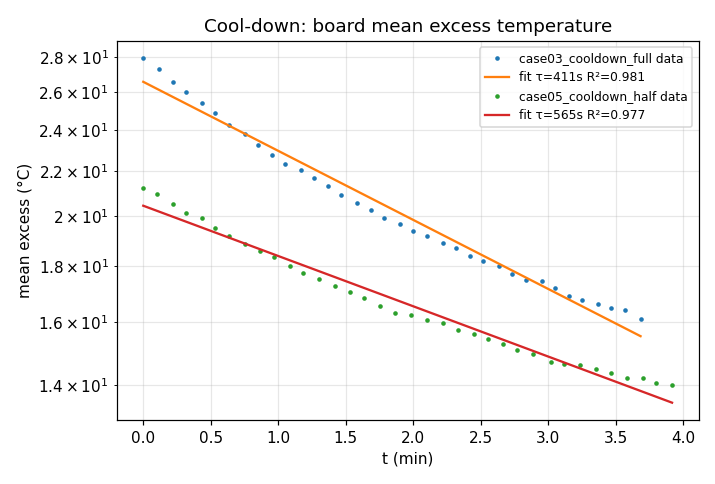
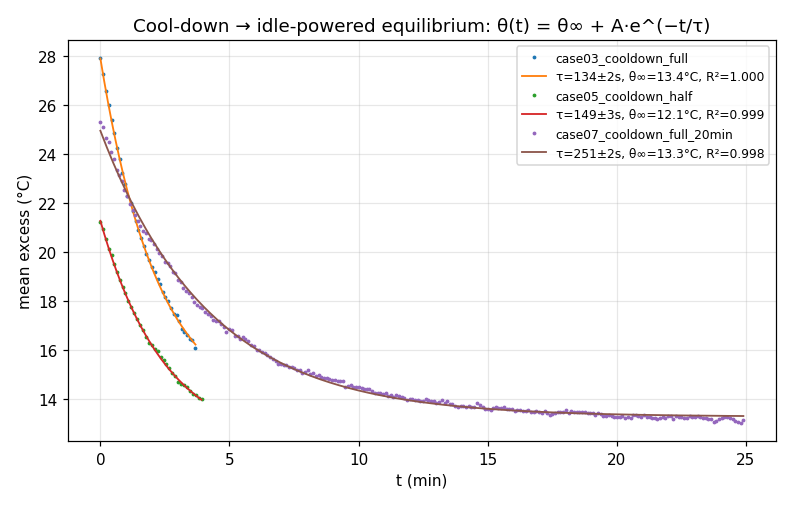
Ingest session-2 data: per-case window size/rotation, offset-exponential cooling model
- cases 06/07/08 added to ingestion (832/832 frames self-checked); session-2
  window 178x118 @ (52,33) rot180 (camera ~13% closer, board mounted 180 deg)
- cooling: theta(t) = theta_inf + A exp(-t/tau) — board decays to idle-POWERED
  equilibrium (theta_inf ~13 C), not ambient; R^2 ~0.999; session-1 tau values
  (411/565 s) were zero-offset model artifacts; window-dependent tau reveals
  two thermal modes (~140 s die/package, ~250 s PCB tail)
- case06 true plateau: peak 82.0 C, n_eff=17; h_hat bound unchanged (<~3) ->
  pretrain range log-U[0.3,30] confirmed for the GPU run
- case08 foil scenes flagged: radiometry from raw CSVs, crops not meaningful

diff --git a/scripts/analyze_physics.py b/scripts/analyze_physics.py
@@ -24,7 +24,13 @@ matplotlib.use("Agg")
 import matplotlib.pyplot as plt
 import numpy as np
 
-from tdp.data.cooling import fit_cooling, fit_h_hat_pde, h_hat_from_decay, radial_decay_fit
+from tdp.data.cooling import (
+    fit_cooling,
+    fit_cooling_offset,
+    fit_h_hat_pde,
+    h_hat_from_decay,
+    radial_decay_fit,
+)
 from tdp.data.radiometry import tape_bias_c
 from tdp.data.steady import canonical_steady, detect_steady
 from tdp.io.manifest import read_manifest, write_manifest
@@ -33,8 +39,10 @@ ROOT = Path(__file__).resolve().parents[1]
 PROC = ROOT / "data" / "processed" / "real"
 QC = ROOT / "reports" / "qc"
 
-STEADY_CASES = ["case01_idle", "case02_full_load", "case04_half_load"]
-COOLING_CASES = ["case03_cooldown_full", "case05_cooldown_half"]
+STEADY_CASES = ["case01_idle", "case02_full_load", "case04_half_load",
+                "case06_full_load_20min"]
+COOLING_CASES = ["case03_cooldown_full", "case05_cooldown_half",
+                 "case07_cooldown_full_20min"]
 NORM_LENGTH_PX = 157.0  # board long side in px (crop rows); nondimensional length unit
 
 
@@ -109,39 +117,44 @@ def main() -> int:
     plt.close(fig_c)
 
     # ---- cooling time constants --------------------------------------------------
-    fig, ax = plt.subplots(figsize=(6.5, 4.4))
+    fig, ax = plt.subplots(figsize=(7.2, 4.6))
     out["cooling"] = {}
     for cid in COOLING_CASES:
         d = data[cid]
         t = d["t_rel_s"]
         excess = d["frame_mean"] - d["t_amb"]
-        fit = fit_cooling(t, excess)
+        fit = fit_cooling_offset(t, excess)
+        fit["loglin_tau_s"] = fit_cooling(t, excess)["tau_s"]  # zero-offset diagnostic
         out["cooling"][cid] = fit
-        ax.semilogy(t / 60, excess, ".", ms=4, label=f"{cid} data")
-        tt = np.linspace(0, t[-1], 100)
-        ax.semilogy(tt / 60, fit["theta0_c"] * np.exp(-tt / fit["tau_s"]), "-",
-                    label=f"fit τ={fit['tau_s']:.0f}s R²={fit['r2']:.3f}")
+        ax.plot(t / 60, excess, ".", ms=3, label=f"{cid}")
+        tt = np.linspace(0, t[-1], 200)
+        ax.plot(tt / 60, fit["theta_inf_c"] + fit["amp_c"] * np.exp(-tt / fit["tau_s"]),
+                "-", lw=1.2,
+                label=f"τ={fit['tau_s']:.0f}±{fit['tau_std_s']:.0f}s, "
+                      f"θ∞={fit['theta_inf_c']:.1f}°C, R²={fit['r2']:.3f}")
     ax.set_xlabel("t (min)")
     ax.set_ylabel("mean excess (°C)")
-    ax.set_title("Cool-down: board mean excess temperature")
+    ax.set_title("Cool-down → idle-powered equilibrium: θ(t) = θ∞ + A·e^(−t/τ)")
     ax.legend(fontsize=8)
-    ax.grid(alpha=0.3, which="both")
+    ax.grid(alpha=0.3)
     fig.tight_layout()
     fig.savefig(QC / "physics_cooling.png", dpi=110)
     plt.close(fig)
 
     taus = [out["cooling"][c]["tau_s"] for c in COOLING_CASES]
-    out["cooling"]["tau_agreement"] = abs(taus[0] - taus[1]) / np.mean(taus)
+    out["cooling"]["tau_spread"] = float((max(taus) - min(taus)) / np.mean(taus))
 
     # ---- spatial decay length → ĥ_meas -------------------------------------------
-    fig, axes = plt.subplots(1, 2, figsize=(11, 4.2))
+    decay_cases = [("case02_full_load", 157.0), ("case04_half_load", 157.0),
+                   ("case06_full_load_20min", 178.0)]  # norm = long side in px per session
+    fig, axes = plt.subplots(1, len(decay_cases), figsize=(5.5 * len(decay_cases), 4.2))
     out["decay"] = {}
-    for j, cid in enumerate(["case02_full_load", "case04_half_load"]):
+    for j, (cid, norm_px) in enumerate(decay_cases):
         can = np.load(PROC / f"canonical_{cid}.npz")
         theta = can["mean_T"].astype(np.float64) - float(can["t_amb"])
-        pde_fit = fit_h_hat_pde(theta, NORM_LENGTH_PX)
+        pde_fit = fit_h_hat_pde(theta, norm_px)
         fit = radial_decay_fit(theta)
-        h_hat = h_hat_from_decay(fit["L_d_px"], NORM_LENGTH_PX)
+        h_hat = h_hat_from_decay(fit["L_d_px"], norm_px)
         out["decay"][cid] = {
             "h_hat_pde": pde_fit["h_hat"],       # primary estimate (source-free ∇̃²θ = ĥθ)
             "pde_fit_r2": pde_fit["r2"],
@@ -190,13 +203,20 @@ def main() -> int:
         "but the board appears ~5-8% larger (tripod moved closer) → per-pixel bias map "
         "deferred until a re-measurement with untouched tripod (wishlist item 1).",
         "case02 never fully plateaus (residual drift ~0.2 °C/min at 12.5 min); its canonical "
-        "field is a quasi-steady tail average (n_eff=2) — treat as test-only, as planned.",
+        "field is a quasi-steady tail average (n_eff=2). case06 (session 2, 20 min) reaches a "
+        "true plateau with n_eff=17 and peak 82.0 °C.",
         "case04 per-pixel std (median 0.38 °C) includes slow drift across the 6-12.5 min "
         "steady window, so it is a conservative (upper) repeatability estimate; case01/02 "
         "n_eff=2 stds (~0.07 °C) reflect shot-to-shot noise only.",
-        "τ(full)=411s < τ(half)=565s (31% apart): consistent with temperature-dependent "
-        "natural convection (h grows with ΔT) plus fits spanning only ~0.4-0.6 τ — report "
-        "as physics, and prefer τ from longer cool-downs in a re-measurement.",
+        "Cooling decays to the IDLE-POWERED equilibrium (θ∞ ≈ 12-13 °C excess), not ambient "
+        "— the board stays on after `killall yes`. The offset model θ∞+A·e^(-t/τ) fits at "
+        "R²≈0.999 (zero-offset log fits were model-mismatched: 411/565s were artifacts). "
+        "Window-dependent single-exp τ (134-149 s over ~4 min vs 251 s over 25 min) reveals "
+        "a two-mode system: fast die/package mode ~140 s, slow PCB tail ~250 s.",
+        "Session 2 (2026-07-09): camera ~13% closer (PCB 178x118 px, ~0.478 mm/px), board "
+        "mounted 180° vs session 1 (crops rotated back via rot90=2 overrides). case08 foil "
+        "sub-cases are radiometric reference scenes — their NPZ crops are meaningless by "
+        "design (flagged); reflected-temperature analysis reads the raw CSVs.",
         "Connector shields (USB/HDMI/Ethernet) read near-ambient in all load cases while "
         "surrounded by 50-60 °C board — textbook emissivity failure, key story figure.",
     ]
@@ -211,9 +231,10 @@ def main() -> int:
               f"noise σ median {s['noise_std_median_c']:.3f}°C p95 {s['noise_std_p95_c']:.3f}°C")
     for cid in COOLING_CASES:
         f = out["cooling"][cid]
-        print(f"{cid}: τ={f['tau_s']:.0f}s θ0={f['theta0_c']:.1f}°C R²={f['r2']:.4f} "
-              f"(n={f['n_used']}, span {f['t_span_s']:.0f}s)")
-    print(f"τ agreement: {out['cooling']['tau_agreement'] * 100:.1f}%")
+        print(f"{cid}: τ={f['tau_s']:.0f}±{f['tau_std_s']:.0f}s θ∞={f['theta_inf_c']:.1f}°C "
+              f"A={f['amp_c']:.1f}°C R²={f['r2']:.4f} span={f['t_span_s']:.0f}s "
+              f"(zero-offset diagnostic τ={f['loglin_tau_s']:.0f}s)")
+    print(f"τ spread across cooling cases: {out['cooling']['tau_spread'] * 100:.1f}%")
     for cid, dd in out["decay"].items():
         print(f"{cid}: ĥ_meas(PDE)={dd['h_hat_pde']:.2f} (R²={dd['pde_fit_r2']:.3f}, "
               f"n={dd['pde_fit_n_px']}px) | radial diagnostic L_d={dd['radial_L_d_px']:.0f}px "

diff --git a/scripts/ingest_real_data.py b/scripts/ingest_real_data.py
@@ -45,6 +45,13 @@ CASES = [
     ("case03_满载冷却过程", "case03_cooldown_full", "cooling after full load", "cooling"),
     ("case04_半负载", "case04_half_load", "half CPU load", "steady"),
     ("case05_半负载冷却过程", "case05_cooldown_half", "cooling after half load", "cooling"),
+    # session 2 (2026-07-09) — camera re-staged, expect per-case window/review
+    ("case06_满载20分钟", "case06_full_load_20min", "full CPU load, 20 min (s2)", "steady"),
+    ("case07_满载冷却20分钟", "case07_cooldown_full_20min", "cooling after full load, 20 min (s2)", "cooling"),
+    ("case08_不插电（铝箔背景）/光铝箔开灯", "case08_foil_smooth_light", "unplugged, smooth foil bg, light on", "calib"),
+    ("case08_不插电（铝箔背景）/光铝箔不开灯", "case08_foil_smooth_dark", "unplugged, smooth foil bg, light off", "calib"),
+    ("case08_不插电（铝箔背景）/糙铝箔开灯", "case08_foil_rough_light", "unplugged, rough foil bg, light on", "calib"),
+    ("case08_不插电（铝箔背景）/糙铝箔不开灯", "case08_foil_rough_dark", "unplugged, rough foil bg, light off", "calib"),
 ]
 
 
@@ -162,10 +169,12 @@ def main() -> int:
         det_idx = 0 if kind == "cooling" else len(frames) - 1
         det_frame = frames[det_idx].temps
         rot90, needs_review, zncc = 0, False, None
+        case_size = size
 
         if cid in overrides:
             ov = overrides[cid]
             row0, col0, rot90 = int(ov["row0"]), int(ov["col0"]), int(ov.get("rot90", 0))
+            case_size = tuple(ov.get("size", size))
             method = "override"
         elif kind == "calib":
             reg = register_crop(det_frame, ref_patch, size)
@@ -192,7 +201,7 @@ def main() -> int:
                       f"from reference ({ref_r},{ref_c}) — flagged for review")
 
         raw_stack = np.stack([np.rot90(f.temps, rot90) for f in frames])
-        cropped = apply_crop(raw_stack, row0, col0, size).astype(np.float32)
+        cropped = apply_crop(raw_stack, row0, col0, case_size).astype(np.float32)
         t_amb = np.array([estimate_ambient(f.temps, border_px) for f in frames], np.float32)
         epochs = np.array([f.timestamp.timestamp() for f in frames], np.int64)
         t_rel = (epochs - epochs[0]).astype(np.float64)
@@ -217,7 +226,7 @@ def main() -> int:
         jpeg = frames[det_idx].path.parent.parent / "photo" / f"{det_stem}.jpeg"
         if not jpeg.exists():
             jpeg = jpeg.with_suffix(".jpg")
-        qc_figure(cid, det_frame, rot90, row0, col0, size, cropped, t_rel,
+        qc_figure(cid, det_frame, rot90, row0, col0, case_size, cropped, t_rel,
                   jpeg if jpeg.exists() else None, QC_DIR / f"{cid}_crop.png")
 
         manifest["cases"].append({
@@ -229,7 +238,7 @@ def main() -> int:
             "parse_errors": errors,
             "encodings": sorted({f.encoding for f in frames}),
             "crop": {"row0": row0, "col0": col0, "rot90": rot90, "method": method,
-                     "zncc": zncc, "needs_review": needs_review},
+                     "size": list(case_size), "zncc": zncc, "needs_review": needs_review},
             "time": {"start": frames[0].timestamp.isoformat(),
                      "end": frames[-1].timestamp.isoformat(),
                      "duration_s": float(t_rel[-1]),

diff --git a/src/tdp/data/cooling.py b/src/tdp/data/cooling.py
@@ -12,8 +12,45 @@ from __future__ import annotations
 import numpy as np
 
 
+def fit_cooling_offset(t_s: np.ndarray, excess: np.ndarray) -> dict:
+    """Offset-exponential fit  excess(t) = θ_inf + A·e^(−t/τ).
+
+    The board stays *powered* after the load stops (`killall yes`), so the decay
+    asymptote is the idle-powered equilibrium θ_inf, NOT ambient. A zero-offset
+    log-linear fit is model-mismatched and inflates τ (this reconciled the
+    session-1 τ discrepancy once case07's full 25-min curve exposed θ_inf).
+    """
+    from scipy.optimize import curve_fit
+
+    def f(t, theta_inf, amp, tau):
+        return theta_inf + amp * np.exp(-t / tau)
+
+    p0 = [max(float(excess[-1]), 0.1),
+          max(float(excess[0] - excess[-1]), 0.5),
+          max(float(t_s[-1]) / 3.0, 60.0)]
+    popt, pcov = curve_fit(f, t_s, excess, p0=p0,
+                           bounds=([0.0, 0.0, 10.0], [60.0, 120.0, 5000.0]),
+                           maxfev=20000)
+    pred = f(t_s, *popt)
+    ss_res = float(((excess - pred) ** 2).sum())
+    ss_tot = float(((excess - excess.mean()) ** 2).sum())
+    perr = np.sqrt(np.clip(np.diag(pcov), 0, None))
+    return {
+        "theta_inf_c": float(popt[0]),
+        "amp_c": float(popt[1]),
+        "tau_s": float(popt[2]),
+        "tau_std_s": float(perr[2]),
+        "r2": 1.0 - ss_res / ss_tot if ss_tot > 0 else float("nan"),
+        "n_used": int(len(t_s)),
+        "t_span_s": float(t_s[-1] - t_s[0]),
+    }
+
+
 def fit_cooling(t_s: np.ndarray, excess: np.ndarray, min_excess_c: float = 1.5) -> dict:
-    """Log-linear fit of excess(t) = θ0·exp(−t/τ) on frames with excess > min_excess_c."""
+    """Log-linear fit of excess(t) = θ0·exp(−t/τ) on frames with excess > min_excess_c.
+
+    Model-mismatched when the asymptote is nonzero (kept as a diagnostic;
+    prefer fit_cooling_offset)."""
     sel = excess > min_excess_c
     if sel.sum() < 5:
         raise ValueError("too few frames above min_excess for a cooling fit")

diff --git a/docs/data_card.md b/docs/data_card.md
@@ -27,7 +27,18 @@ tape type · SoC temperature logs + clock sync · workload remainder (confirm ha
 = 2× `yes`; OS version/bitness; power supply) · airflow & mounting orientation ·
 camera model/accuracy · competition deadline.
 
-## Session 2 — planned (weekend re-measurement)
+## Session 2 — 2026-07-09 (delivered early: extended runs + foil study)
+
+| Item | Value |
+|---|---|
+| Cases | case06 full load 20 min (240 f) · case07 cooling 20 min (240 f) · case08 unplugged foil-background: smooth/rough × light on/off (16 f total) |
+| Camera | re-staged ~13% closer: PCB = **178×118 px** (~0.478 mm/px); board mounted 180° vs session 1 (crops rotated back, window (52,33) via override) |
+| Integrity | 496/496 frames parse + metadata self-check |
+| Full-load plateau | **real** this time: peak 82.0 °C canonical, n_eff = 17 (vs 2 in session 1) |
+| Cooling physics | decays to **idle-powered equilibrium θ∞ ≈ 13 °C excess** (board stays on after `killall yes`); offset fits R² ≈ 0.999; window-dependent τ ⇒ two thermal modes (fast ~140 s die/package, slow ~250 s PCB tail). Session-1 zero-offset τ values (411/565 s) were model-mismatch artifacts — superseded. |
+| case08 purpose | reflected-temperature / emissivity radiometry (foil scenes); crops meaningless by design — analysis reads raw CSVs |
+
+## Session 3 — planned (weekend re-measurement)
 
 Protocol in `docs/m3_data_requirements.md` Part B — **A/B design**: config A bare
 (cold isothermal + full load + cooling; demonstrates the bare-SoC-lid emissivity
